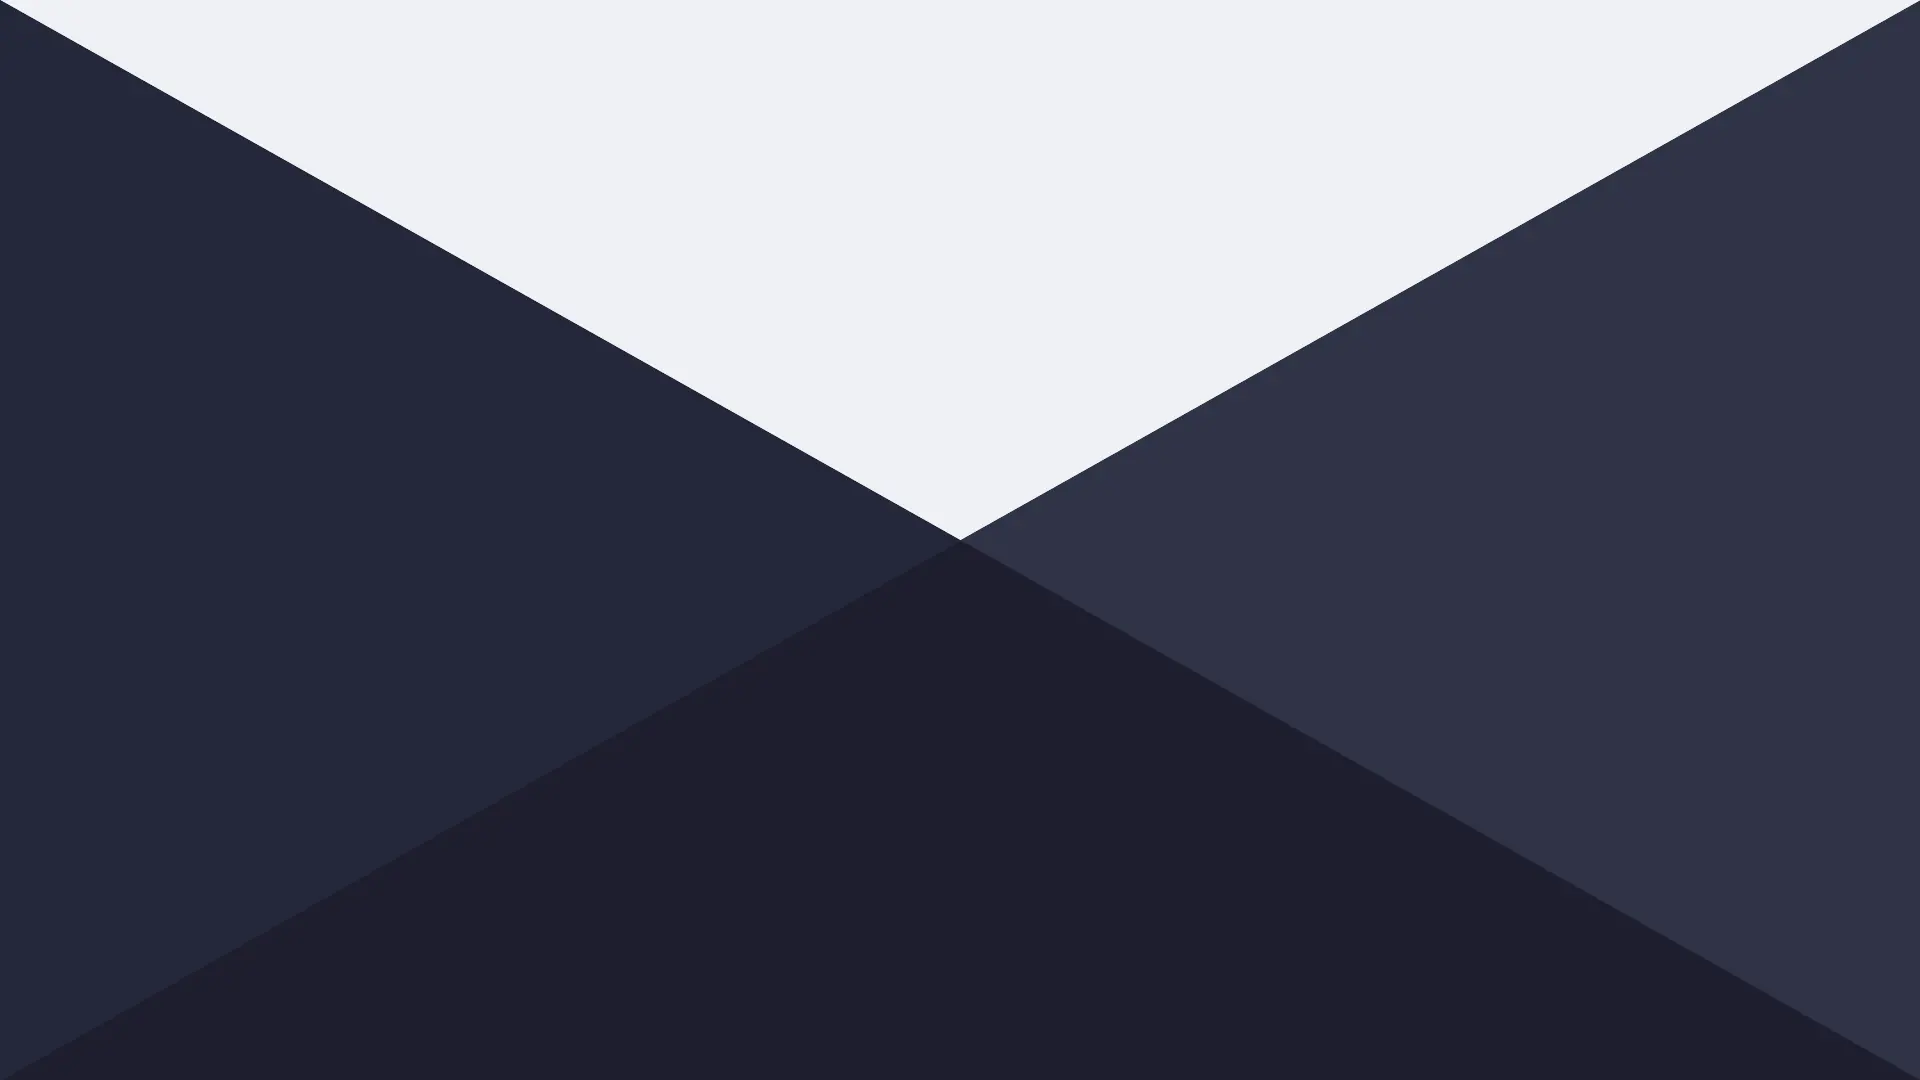
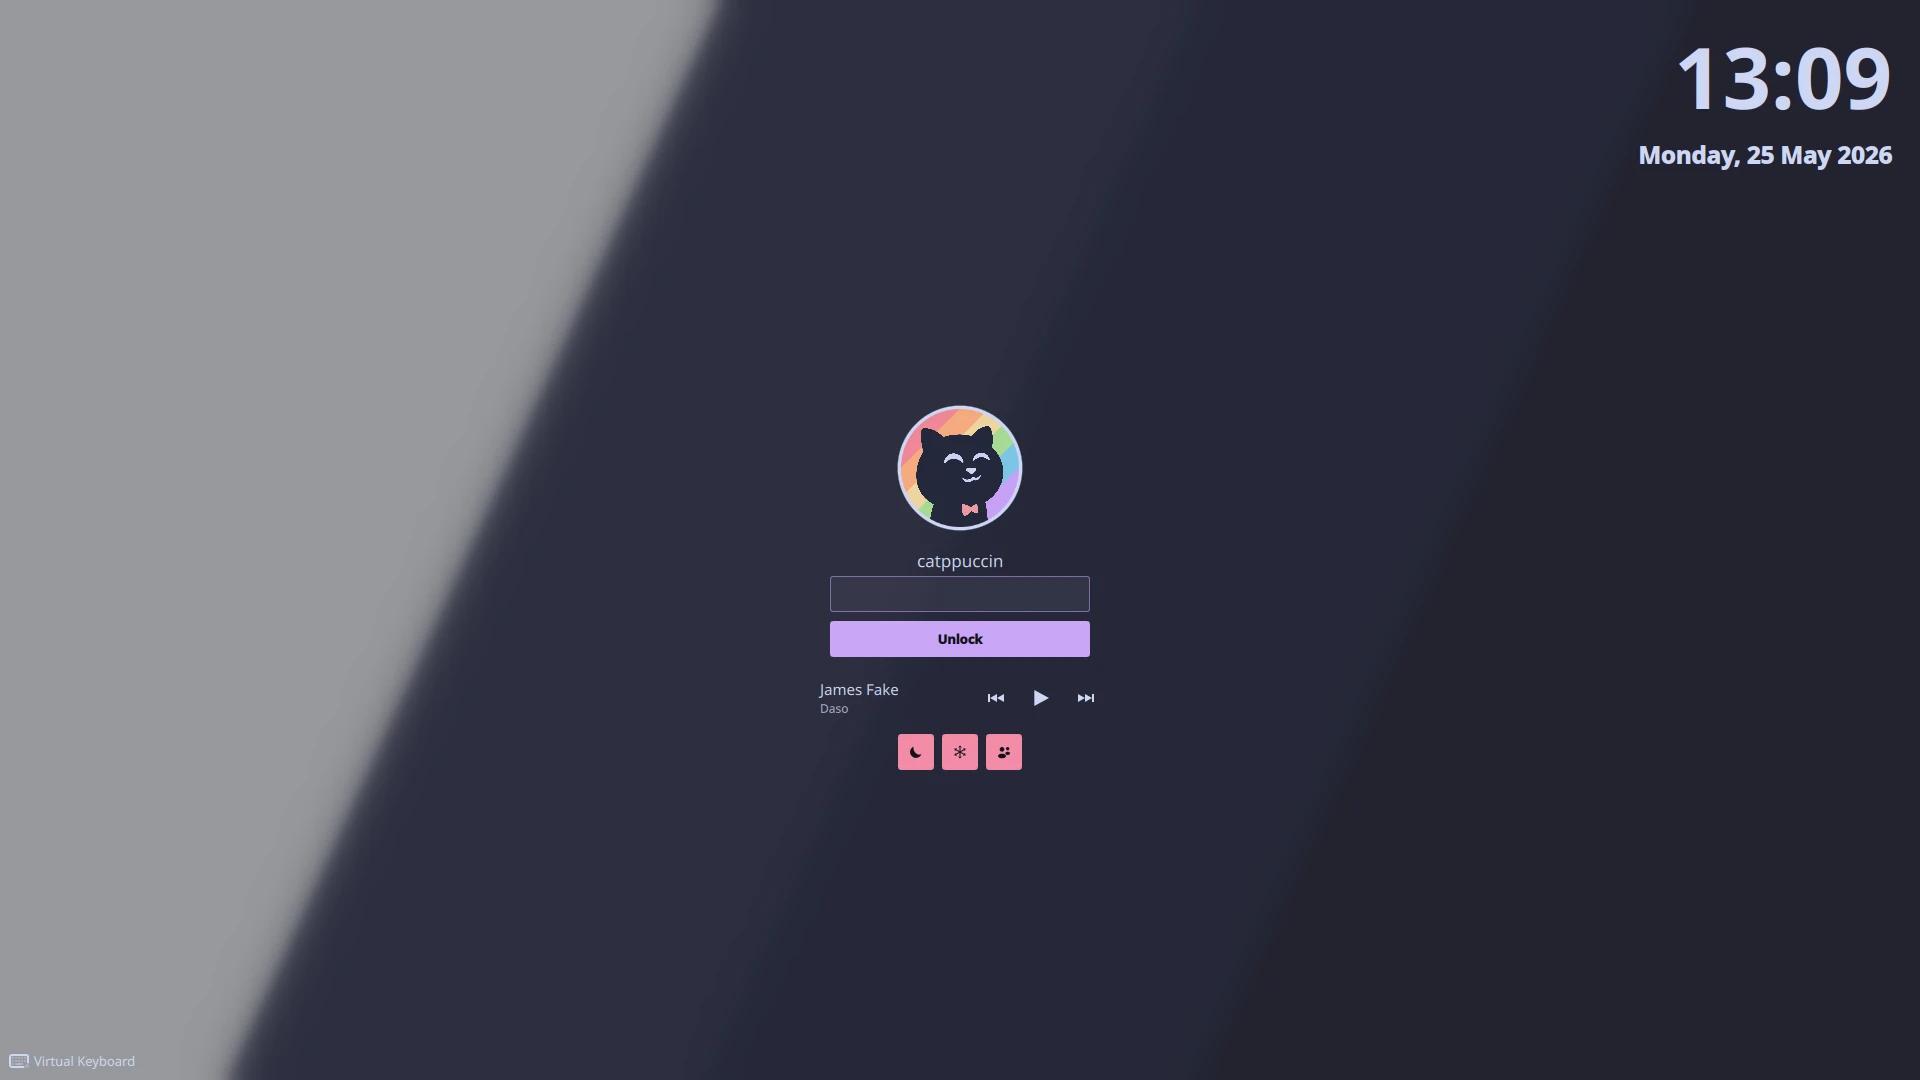
Add per-flavor previews; drop the screenshot tooling
Replaces the script-driven screenshot capture path with hand-captured
images. Updates the README to reference the new assets and trims the
testing surface back to "just launch the greeter against the current
config".

- Add assets/{latte,frappe,macchiato,mocha}.webp (per-flavor lockscreen
  previews) and refresh assets/preview.webp (hero shot).
- README per-flavor <details> slots now point at the new .webp files.
- Drop scripts/capture-screenshots.sh; CHANGELOG entry trimmed
  accordingly. Screenshots are captured manually; the user picks
  whichever wallpaper / username / avatar they want for the shot via
  System Settings and ThemeUserConfig.qml.
- install.sh: remove --no-launch (only had value for the now-gone
  capture script). --test simply rebuilds the user-local shell mirror
  and launches the greeter against whatever Plasma config the user
  has. Help text spells out that wallpaper / avatar / etc. come from
  the user's configuration, not the script.

diff --git a/README.md b/README.md
@@ -24,19 +24,19 @@ SPDX-License-Identifier: GPL-2.0-or-later
 
 <details>
 	<summary>🌻 Latte</summary>
-	<img src="assets/latte.png"/>
+	<img src="assets/latte.webp"/>
 </details>
 <details>
 	<summary>🪴 Frappé</summary>
-	<img src="assets/frappe.png"/>
+	<img src="assets/frappe.webp"/>
 </details>
 <details>
 	<summary>🌺 Macchiato</summary>
-	<img src="assets/macchiato.png"/>
+	<img src="assets/macchiato.webp"/>
 </details>
 <details>
 	<summary>🌿 Mocha</summary>
-	<img src="assets/mocha.png"/>
+	<img src="assets/mocha.webp"/>
 </details>
 
 ## Usage

diff --git a/CHANGELOG.md b/CHANGELOG.md
@@ -50,7 +50,7 @@ and this project adheres to [Semantic Versioning](https://semver.org/).
 - `LICENSE` file (GPL-2.0-or-later) and consistent SPDX headers across
   shell scripts and project-authored QML.
 - `CHANGELOG.md`, `CONTRIBUTING.md`, GitHub Actions `shellcheck`
-  workflow, `scripts/capture-screenshots.sh` helper.
+  workflow.
 
 ### Fixed
 
